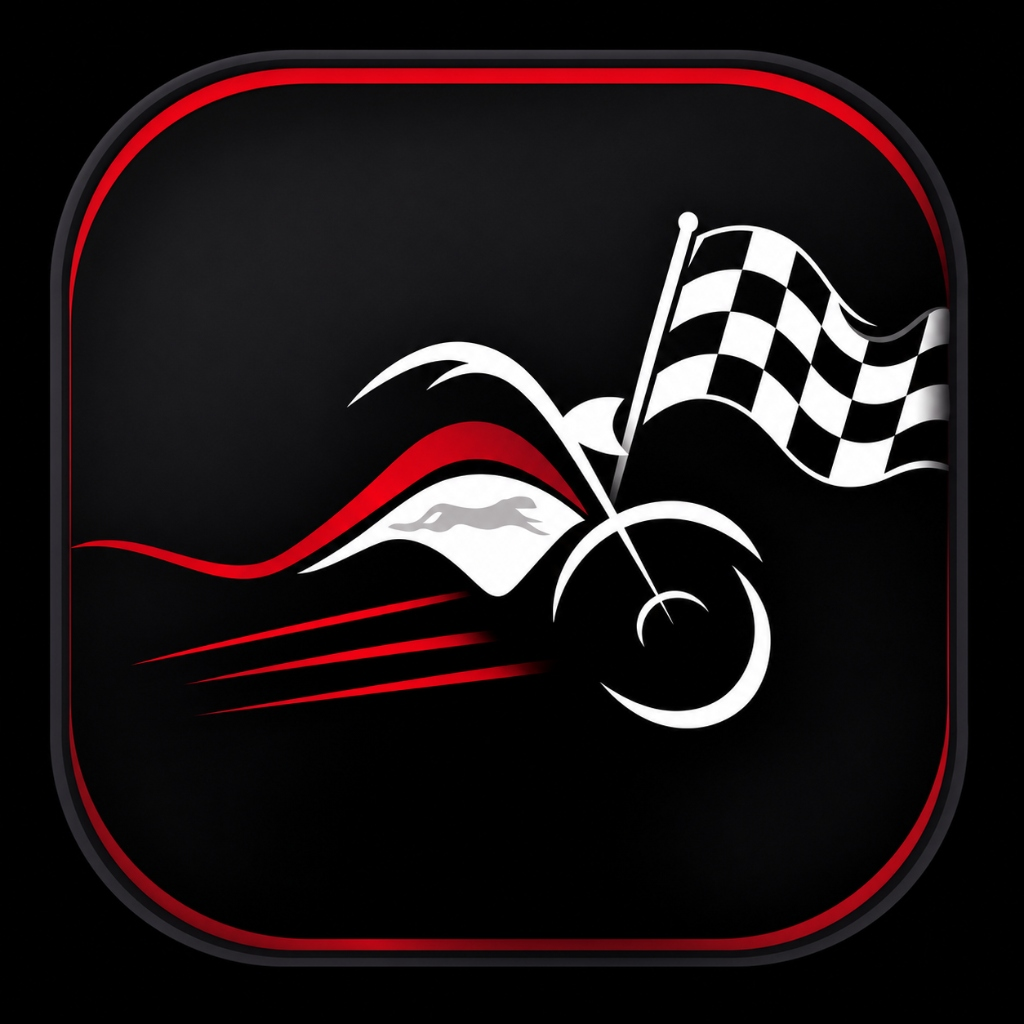
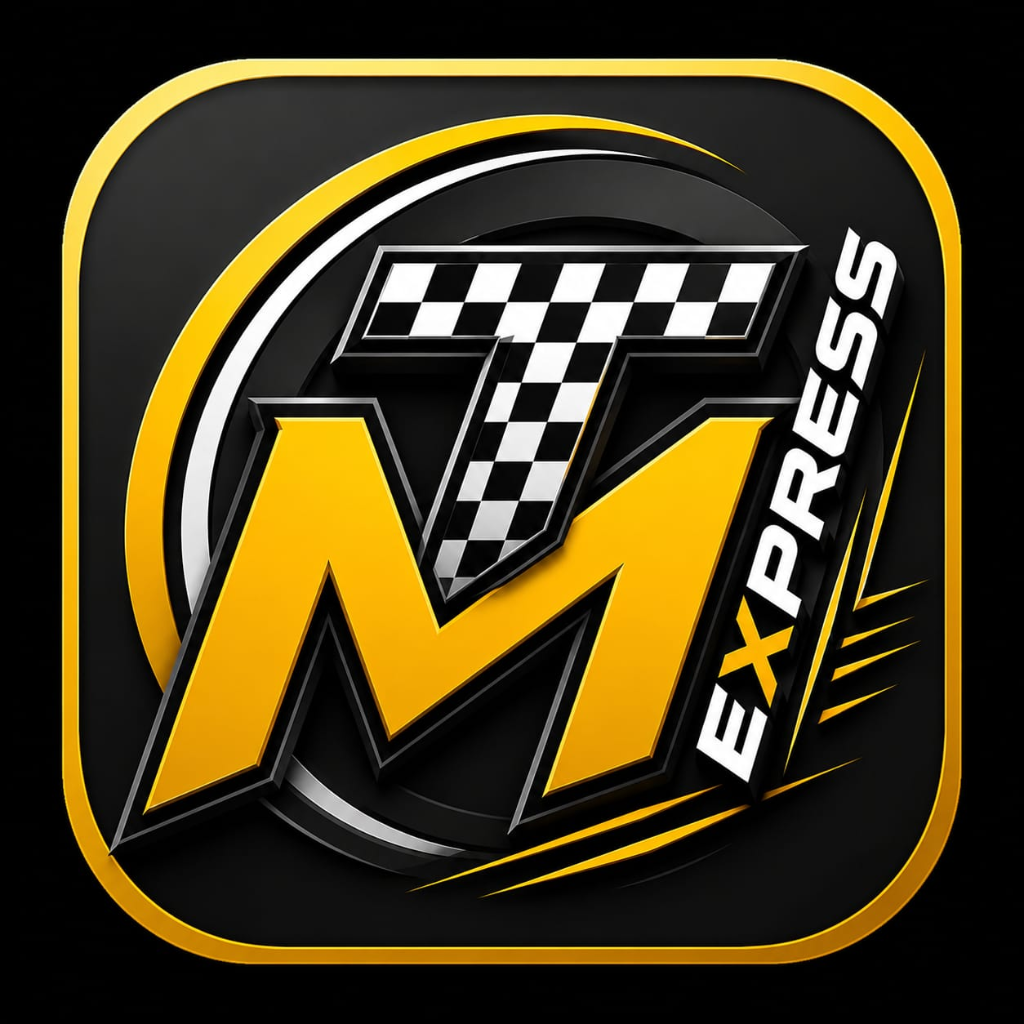
rebrand: Primavera Delivery -> MT Express (textos + icones)

diff --git a/src/routes/login.tsx b/src/routes/login.tsx
@@ -1,4 +1,4 @@
-import { createFileRoute, useNavigate, Link } from "@tanstack/react-router";
+import { createFileRoute, useNavigate, Link } from "@tanstack/react-router";
 import { useEffect, useState } from "react";
 import { useAuth } from "@/contexts/AuthContext";
 import { Button } from "@/components/ui/button";
@@ -46,8 +46,8 @@ function LoginPage() {
       <div className="hidden lg:flex flex-col justify-between p-12 bg-black text-white relative overflow-hidden">
         <div className="absolute inset-0 opacity-10" style={{backgroundImage:"radial-gradient(circle at 20% 30%, hsl(var(--primary)) 1px, transparent 1px), radial-gradient(circle at 70% 60%, hsl(var(--primary)) 1px, transparent 1px)", backgroundSize:"40px 40px"}} />
         <div className="relative flex items-center gap-3">
-          <div className="h-14 w-14 rounded-2xl bg-black flex items-center justify-center overflow-hidden ring-1 ring-primary/30"><img src={logoIcon} alt="Primavera Delivery" className="h-12 w-12 object-contain"/></div>
-          <span className="text-2xl font-black tracking-tight">Primavera Delivery</span>
+          <div className="h-14 w-14 rounded-2xl bg-black flex items-center justify-center overflow-hidden ring-1 ring-primary/30"><img src={logoIcon} alt="MT Express" className="h-12 w-12 object-contain"/></div>
+          <span className="text-2xl font-black tracking-tight">MT Express</span>
         </div>
         <div className="relative">
           <h1 className="text-5xl font-black leading-tight tracking-tight">
@@ -57,14 +57,14 @@ function LoginPage() {
             Pedidos, entregas, cardápio e clientes — tudo no mesmo painel.
           </p>
         </div>
-        <p className="relative text-xs opacity-60 font-semibold">© Primavera Delivery</p>
+        <p className="relative text-xs opacity-60 font-semibold">© MT Express</p>
       </div>
 
       <div className="flex items-center justify-center p-6 sm:p-12 bg-background">
         <div className="w-full max-w-md">
           <div className="lg:hidden mb-8 flex items-center gap-2">
             <div className="h-10 w-10 rounded-xl bg-black flex items-center justify-center overflow-hidden"><img src={logoIcon} alt="" className="h-9 w-9 object-contain"/></div>
-            <span className="text-xl font-black">Primavera Delivery</span>
+            <span className="text-xl font-black">MT Express</span>
           </div>
 
           <p className="label-tiny">Painel do Lojista</p>

diff --git a/src/components/business/BusinessLayout.tsx b/src/components/business/BusinessLayout.tsx
@@ -1,4 +1,4 @@
-import { useEffect, useState } from "react";
+import { useEffect, useState } from "react";
 import { Link, Outlet, useLocation, useNavigate } from "@tanstack/react-router";
 import { useAuth } from "@/contexts/AuthContext";
 import { supabase } from "@/integrations/supabase/client";
@@ -130,7 +130,7 @@ export function BusinessLayout({ children }: { children?: React.ReactNode }) {
           {/* Logo & Brand */}
           <Link to="/business" className={`h-20 flex items-center gap-3 border-b border-sidebar-border/50 hover:bg-sidebar-accent/30 transition-colors ${isSidebarExpanded ? "px-6" : "px-0 justify-center"}`}>
             <div className="h-12 w-12 min-w-12 flex items-center justify-center">
-              <img src={logoIcon} alt="Primavera Delivery" className="h-full w-full object-contain" />
+              <img src={logoIcon} alt="MT Express" className="h-full w-full object-contain" />
             </div>
             {isSidebarExpanded && (
               <div className="flex flex-col whitespace-nowrap overflow-hidden">
@@ -237,9 +237,9 @@ export function BusinessLayout({ children }: { children?: React.ReactNode }) {
             {/* Mobile menu / brand */}
             <div className="lg:hidden flex items-center gap-2 mr-2">
               <div className="h-10 w-10 flex items-center justify-center">
-                <img src={logoIcon} alt="Primavera Delivery" className="h-full w-full object-contain" />
+                <img src={logoIcon} alt="MT Express" className="h-full w-full object-contain" />
               </div>
-              <span className="font-black text-sm">Primavera Delivery</span>
+              <span className="font-black text-sm">MT Express</span>
             </div>
 
 

diff --git a/src/routes/__root.tsx b/src/routes/__root.tsx
@@ -1,4 +1,4 @@
-import { QueryClient, QueryClientProvider } from "@tanstack/react-query";
+import { QueryClient, QueryClientProvider } from "@tanstack/react-query";
 import {
   Outlet,
   Link,
@@ -76,12 +76,12 @@ export const Route = createRootRouteWithContext<{ queryClient: QueryClient }>()(
       { charSet: "utf-8" },
       { name: "viewport", content: "width=device-width, initial-scale=1" },
       { name: "google", content: "notranslate" },
-      { title: "Primavera Delivery — Painel do Lojista" },
+      { title: "MT Express — Painel do Lojista" },
       { name: "description", content: "Gerencie pedidos, entregas, cardápio e clientes em um só lugar." },
-      { property: "og:title", content: "Primavera Delivery — Painel do Lojista" },
+      { property: "og:title", content: "MT Express — Painel do Lojista" },
       { property: "og:description", content: "Gerencie pedidos, entregas, cardápio e clientes em um só lugar." },
       { property: "og:type", content: "website" },
-      { name: "twitter:title", content: "Primavera Delivery — Painel do Lojista" },
+      { name: "twitter:title", content: "MT Express — Painel do Lojista" },
       { name: "twitter:description", content: "Gerencie pedidos, entregas, cardápio e clientes em um só lugar." },
       { property: "og:image", content: "https://pub-bb2e103a32db4e198524a2e9ed8f35b4.r2.dev/e7305768-7376-4194-8957-ddc5c57f9513/id-preview-f0fcf7ef--07693a9f-6bbb-44dc-a90a-a75d7c82b358.lovable.app-1780187006807.png" },
       { name: "twitter:image", content: "https://pub-bb2e103a32db4e198524a2e9ed8f35b4.r2.dev/e7305768-7376-4194-8957-ddc5c57f9513/id-preview-f0fcf7ef--07693a9f-6bbb-44dc-a90a-a75d7c82b358.lovable.app-1780187006807.png" },

diff --git a/src/routes/login.business.tsx b/src/routes/login.business.tsx
@@ -1,4 +1,4 @@
-import { createFileRoute } from "@tanstack/react-router";
+import { createFileRoute } from "@tanstack/react-router";
 import logoIcon from "@/assets/logo-icon-v3.png";
 
 export const Route = createFileRoute("/login/business")({
@@ -6,9 +6,9 @@ export const Route = createFileRoute("/login/business")({
     <div className="min-h-screen flex items-center justify-center bg-black p-6">
       <div className="bg-card rounded-3xl p-8 max-w-md w-full text-center shadow-2xl">
         <div className="h-20 w-20 mx-auto rounded-2xl bg-black flex items-center justify-center overflow-hidden ring-1 ring-primary/30">
-          <img src={logoIcon} alt="Primavera Delivery" className="h-16 w-16 object-contain"/>
+          <img src={logoIcon} alt="MT Express" className="h-16 w-16 object-contain"/>
         </div>
-        <h1 className="mt-4 text-2xl font-black">Primavera Delivery</h1>
+        <h1 className="mt-4 text-2xl font-black">MT Express</h1>
         <p className="mt-1 text-sm font-semibold text-muted-foreground">Acesso Lojista</p>
         <p className="mt-2 text-muted-foreground">Use o login padrão por enquanto.</p>
         <a href="/login" className="mt-6 inline-block px-6 py-3 rounded-xl bg-primary text-primary-foreground font-bold">Ir para login</a>

diff --git a/src/routes/business.orders.tsx b/src/routes/business.orders.tsx
@@ -1,4 +1,4 @@
-import { createFileRoute } from "@tanstack/react-router";
+import { createFileRoute } from "@tanstack/react-router";
 import { useQuery, useQueryClient } from "@tanstack/react-query";
 import { supabase } from "@/integrations/supabase/client";
 import { useMyCompany } from "@/services/companies";
@@ -217,7 +217,7 @@ function OrdersPage() {
         hr { border: none; border-top: 1px dashed #ccc; margin: 16px 0; }
         .footer { margin-top: 24px; text-align: center; font-size: 11px; color: #999; }
       </style></head><body>
-        <h1>Primavera Delivery</h1>
+        <h1>MT Express</h1>
         <p style="color:#666;margin-top:0">Comanda de Pedido</p>
         <hr/>
         <div class="label">Pedido</div>

diff --git a/src/routes/business.settings.tsx b/src/routes/business.settings.tsx
@@ -1,4 +1,4 @@
-import { createFileRoute } from "@tanstack/react-router";
+import { createFileRoute } from "@tanstack/react-router";
 import { useState, useEffect, useRef } from "react";
 import { createPortal } from "react-dom";
 import { useAuth } from "@/contexts/AuthContext";
@@ -923,7 +923,7 @@ function BusinessSettingsPage() {
                        </div>
                        <div className="h-14 bg-muted/40 rounded-xl p-2">
                           <p className="text-[7px] text-muted-foreground line-clamp-4 italic leading-relaxed">
-                             {description || "Sua descrição aparecerá aqui para os milhares de clientes do Primavera Delivery."}
+                             {description || "Sua descrição aparecerá aqui para os milhares de clientes do MT Express."}
                           </p>
                        </div>
                        <div className="space-y-2">